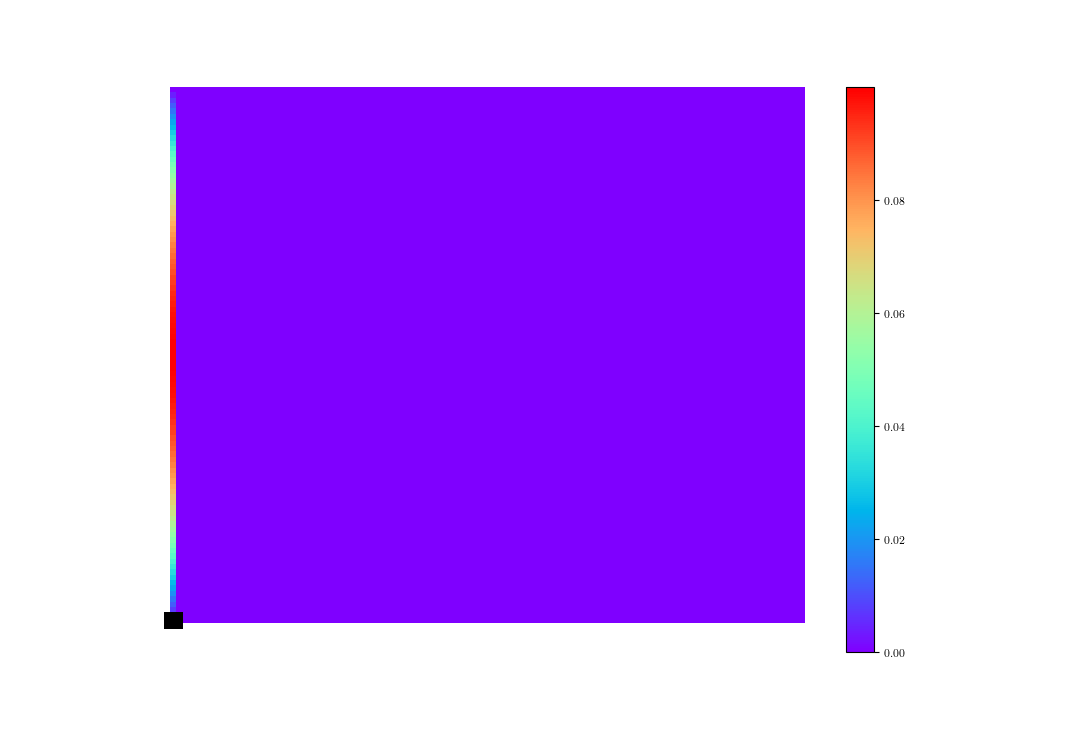
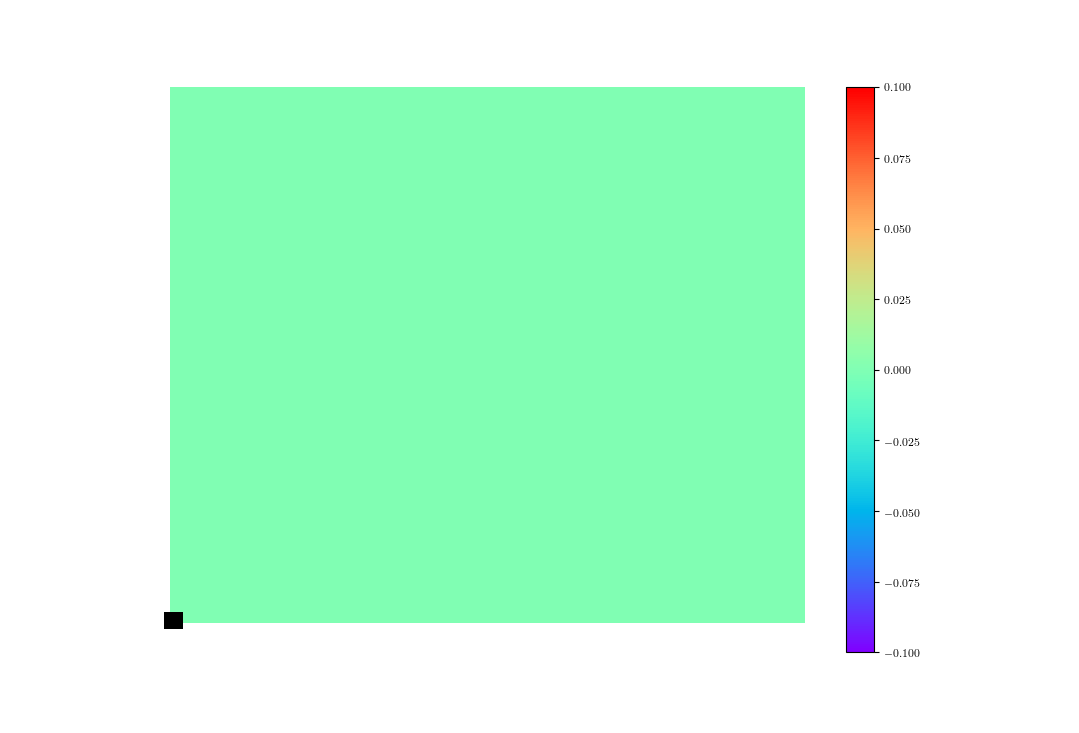
.

diff --git a/Thrombus/AC-NS-2D/Psi/ac_ns_psi.py b/Thrombus/AC-NS-2D/Psi/ac_ns_psi.py
@@ -372,8 +372,13 @@ def main():
         xt = np.concatenate((t[i]*np.ones((num_x*num_y, 1)), x_2d), axis=1)
         xt_tensor = torch.tensor(xt, requires_grad=True, dtype=torch.float32).to(device)
         y_pred = model(xt_tensor)
+        u_test[i,:,:] = to_numpy(y_pred[:, 0]).reshape(num_x, num_y)
+        v_test[i,:,:] = to_numpy(y_pred[:, 1]).reshape(num_x, num_y)
         phi_test[i,:,:] = to_numpy(y_pred[:, 3]).reshape(num_x, num_y)
+        psi_1_test[i,:,:] = to_numpy(y_pred[:, 4]).reshape(num_x, num_y)
+        psi_2_test[i,:,:] = to_numpy(y_pred[:, 5]).reshape(num_x, num_y)
 
+        ## phi
         fig, ax = newfig(2.0, 1.1)
         ax.axis('off') 
         gs0 = gridspec.GridSpec(1, 2)
@@ -385,6 +390,34 @@ def main():
         ax.plot(xt[:,1], xt[:,2], 'kx', label = 'Data (%d points)' % (xt.shape[0]), markersize = 4, clip_on = False)
         line = np.linspace(xt.min(), xt.max(), 2)[:,None]
         fig.savefig('./phi_'+str(i+1000)+'.png')
+        plt.close()
+
+        ## psi_1
+        fig, ax = newfig(2.0, 1.1)
+        ax.axis('off') 
+        gs0 = gridspec.GridSpec(1, 2)
+        gs0.update(top=1-0.06, bottom=1-1/3, left=0.15, right=0.85, wspace=0)
+        h = ax.imshow(psi_1_test[i,:,:], interpolation='nearest', cmap='rainbow', 
+                # extent=[t.min(), t.max(), x.min(), x.max()], 
+                    origin='lower', aspect='auto')
+        fig.colorbar(h)
+        ax.plot(xt[:,1], xt[:,2], 'kx', label = 'Data (%d points)' % (xt.shape[0]), markersize = 4, clip_on = False)
+        line = np.linspace(xt.min(), xt.max(), 2)[:,None]
+        fig.savefig('./psi_1_'+str(i+1000)+'.png')
+        plt.close()
+
+        ## psi_2
+        fig, ax = newfig(2.0, 1.1)
+        ax.axis('off') 
+        gs0 = gridspec.GridSpec(1, 2)
+        gs0.update(top=1-0.06, bottom=1-1/3, left=0.15, right=0.85, wspace=0)
+        h = ax.imshow(psi_2_test[i,:,:], interpolation='nearest', cmap='rainbow', 
+                # extent=[t.min(), t.max(), x.min(), x.max()], 
+                    origin='lower', aspect='auto')
+        fig.colorbar(h)
+        ax.plot(xt[:,1], xt[:,2], 'kx', label = 'Data (%d points)' % (xt.shape[0]), markersize = 4, clip_on = False)
+        line = np.linspace(xt.min(), xt.max(), 2)[:,None]
+        fig.savefig('./psi_2_'+str(i+1000)+'.png')
         plt.close()
 
 
